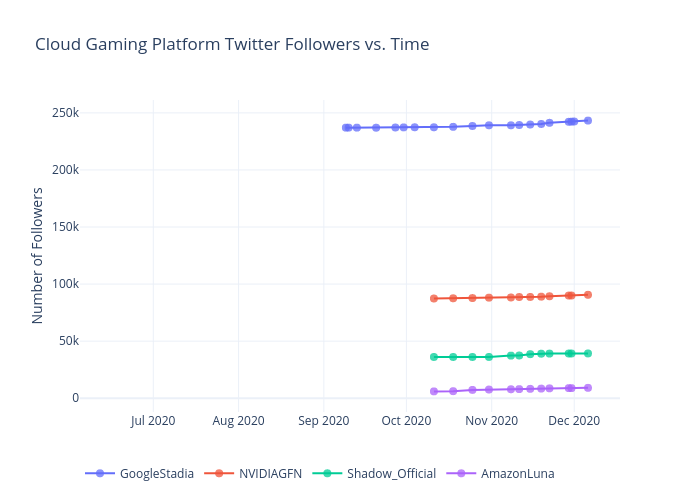
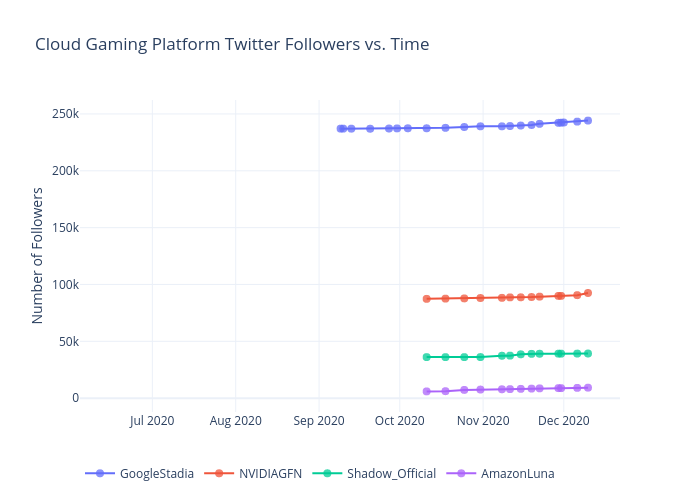
Add files via upload

diff --git a/twitter_platforms/figure.js b/twitter_platforms/figure.js
@@ -34,6 +34,7 @@ var figure = {
                 "2020-11-30",
                 "2020-12-01",
                 "2020-12-06",
+                "2020-12-10",
                 "2020-12-13",
                 "2020-12-20",
                 "2020-12-27",
@@ -63,7 +64,8 @@ var figure = {
                 "242205",
                 "242332",
                 "242460",
-                "243253"
+                "243253",
+                "244160"
             ],
             "marker": {
                 "size": 8,
@@ -107,6 +109,7 @@ var figure = {
                 "2020-11-30",
                 "2020-12-01",
                 "2020-12-06",
+                "2020-12-10",
                 "2020-12-13",
                 "2020-12-20",
                 "2020-12-27",
@@ -136,7 +139,8 @@ var figure = {
                 "89942",
                 "89980",
                 "",
-                "90617"
+                "90617",
+                "92540"
             ],
             "marker": {
                 "size": 8,
@@ -180,6 +184,7 @@ var figure = {
                 "2020-11-30",
                 "2020-12-01",
                 "2020-12-06",
+                "2020-12-10",
                 "2020-12-13",
                 "2020-12-20",
                 "2020-12-27",
@@ -209,7 +214,8 @@ var figure = {
                 "39158",
                 "39170",
                 "",
-                "39218"
+                "39218",
+                "39279"
             ],
             "marker": {
                 "size": 8,
@@ -253,6 +259,7 @@ var figure = {
                 "2020-11-30",
                 "2020-12-01",
                 "2020-12-06",
+                "2020-12-10",
                 "2020-12-13",
                 "2020-12-20",
                 "2020-12-27",
@@ -282,7 +289,8 @@ var figure = {
                 "8819",
                 "8825",
                 "",
-                "9076"
+                "9076",
+                "9238"
             ],
             "marker": {
                 "size": 8,
@@ -300,8 +308,8 @@ var figure = {
         "xaxis": {
             "type": "date",
             "range": [
-                "2020-06-05 03:48:08.3882",
-                "2020-12-16 20:11:51.6118"
+                "2020-06-04 21:47:10.3162",
+                "2020-12-21 02:12:49.6838"
             ],
             "title": {
                 "text": ""
@@ -311,8 +319,8 @@ var figure = {
         "yaxis": {
             "type": "linear",
             "range": [
-                -12689.698465367066,
-                261903.69846536708
+                -10569.88001495141,
+                260690.8800149514
             ],
             "title": {
                 "text": "Number of Followers"
